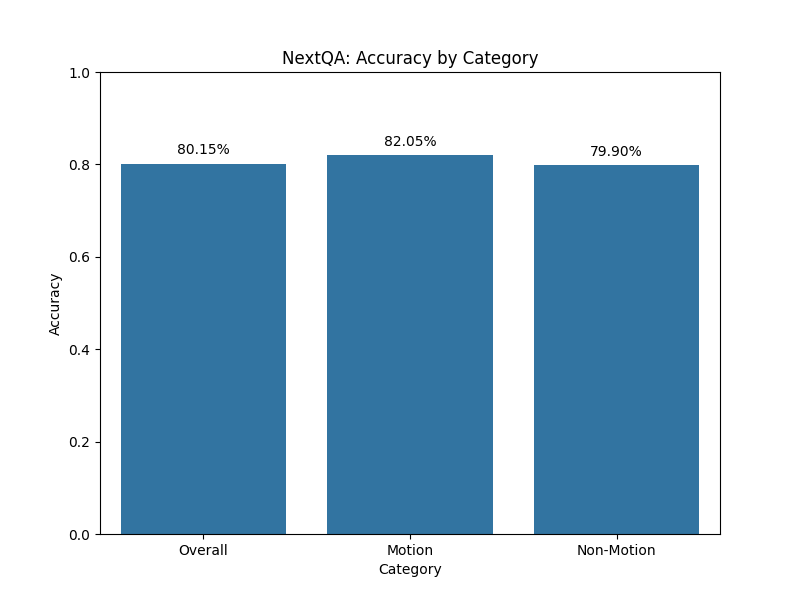
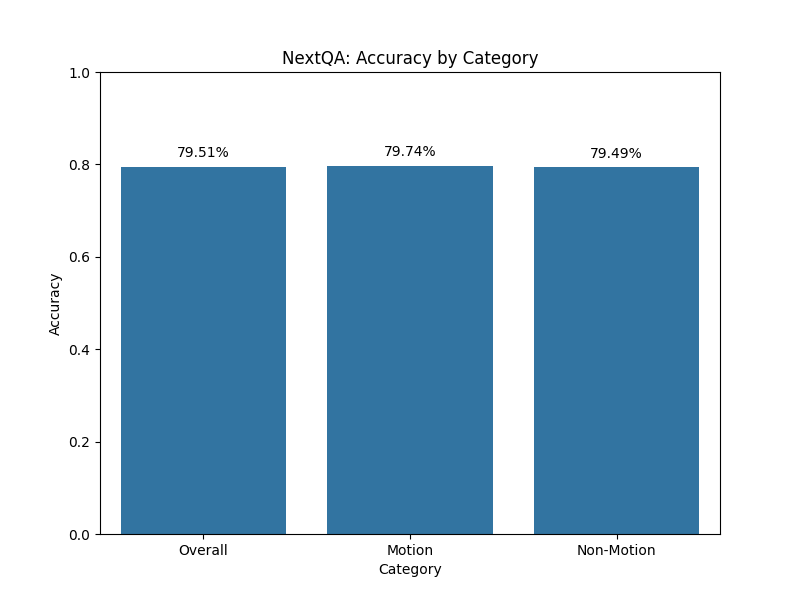
visualizations

Changed region(s): [[0.4062, 0.21, 0.625, 0.3], [0.6875, 0.24, 0.875, 0.3], [0.1562, 0.24, 0.3438, 0.3]]

diff --git a/analyzing_results/analyze_benchmark_comparison.py b/analyzing_results/analyze_benchmark_comparison.py
@@ -1,5 +1,6 @@
 import json
 import os
+import glob
 from typing import Dict, List, Tuple
 
 import matplotlib.pyplot as plt
@@ -28,7 +29,6 @@ def load_global_id_to_motion(qa_labeled_path: str) -> Dict[str, bool]:
 
 
 def collect_results(files: List[str], qid2gid: Dict[str, str], gid2motion: Dict[str, bool]) -> List[Tuple[bool, bool]]:
-    # returns list of (correct, has_motion)
     out: List[Tuple[bool, bool]] = []
     for fp in files:
         if not os.path.exists(fp):
@@ -55,7 +55,6 @@ def collect_results(files: List[str], qid2gid: Dict[str, str], gid2motion: Dict[
 
 
 def compute_accuracy(pairs: List[Tuple[bool, bool]]) -> Dict[str, float]:
-    # returns dict with keys: overall, motion, non_motion and counts
     total = len(pairs)
     motion_pairs = [c for c in pairs if c[1] is True]
     non_motion_pairs = [c for c in pairs if c[1] is False]
@@ -82,26 +81,17 @@ def compute_accuracy(pairs: List[Tuple[bool, bool]]) -> Dict[str, float]:
 
 
 def main():
-    qid2gid = load_question_to_global_id('qa.jsonl')
-    gid2motion = load_global_id_to_motion('qa_data_labeled.json')
+    # Resolve data paths (prefer compiled_qa_data if available)
+    qa_jsonl = 'compiled_qa_data/qa.jsonl' if os.path.exists('compiled_qa_data/qa.jsonl') else 'qa.jsonl'
+    qa_labeled = 'compiled_qa_data/qa_data_labeled.json' if os.path.exists('compiled_qa_data/qa_data_labeled.json') else 'qa_data_labeled.json'
 
-    # Define files for each benchmark
-    lvbench_files = [
-        'output/internvl-lvbench-1/OpenGVLab__InternVL2-8B/20251028_232855_samples_motion_analysis_bench.jsonl',
-        'output/internvl-lvbench-2/OpenGVLab__InternVL2-8B/20251028_233849_samples_motion_analysis_bench.jsonl',
-        'output/internvl-lvbench-3/OpenGVLab__InternVL2-8B/20251029_005716_samples_motion_analysis_bench.jsonl',
-        'output/internvl-lvbench-4/OpenGVLab__InternVL2-8B/20251029_010159_samples_motion_analysis_bench.jsonl',
-    ]
-    nextqa_files = [
-        'output/internvl-nextqa-1/OpenGVLab__InternVL2-8B/20251029_014914_samples_motion_analysis_bench.jsonl',
-        'output/internvl-nextqa-2/OpenGVLab__InternVL2-8B/20251029_015003_samples_motion_analysis_bench.jsonl',
-        'output/internvl-nextqa-3/OpenGVLab__InternVL2-8B/20251029_021315_samples_motion_analysis_bench.jsonl',
-        'output/internvl-nextqa-4/OpenGVLab__InternVL2-8B/20251029_021417_samples_motion_analysis_bench.jsonl',
-    ]
-    egoschema_files = [
-        'output/internvl-egoschema-1/OpenGVLab__InternVL2-8B/20251028_102841_samples_motion_analysis_bench.jsonl',
-        'output/internvl-egoschema-2/OpenGVLab__InternVL2-8B/20251028_225019_samples_motion_analysis_bench.jsonl',
-    ]
+    qid2gid = load_question_to_global_id(qa_jsonl)
+    gid2motion = load_global_id_to_motion(qa_labeled)
+
+    # Auto-discover files for each benchmark
+    lvbench_files = sorted(glob.glob('output/internvl-lvbench-*/OpenGVLab__InternVL2-8B/*.jsonl'))
+    nextqa_files = sorted(glob.glob('output/internvl-nextqa-*/OpenGVLab__InternVL2-8B/*.jsonl'))
+    egoschema_files = sorted(glob.glob('output/internvl-egoschema-*/OpenGVLab__InternVL2-8B/*.jsonl'))
 
     print('Collecting LVBench...')
     lv_pairs = collect_results(lvbench_files, qid2gid, gid2motion)
@@ -114,24 +104,13 @@ def main():
     nq_stats = compute_accuracy(nq_pairs)
     ego_stats = compute_accuracy(ego_pairs)
 
-    # Prepare grouped bar chart: x groups = ['Short (NextQA)', 'Medium (EgoSchema)', 'Long (LVBench)']
     groups = ['Short (NextQA)', 'Medium (EgoSchema)', 'Long (LVBench)']
-    motion_vals = [
-        nq_stats['motion'],
-        ego_stats['motion'],
-        lv_stats['motion'],
-    ]
-    non_motion_vals = [
-        nq_stats['non_motion'],
-        ego_stats['non_motion'],
-        lv_stats['non_motion'],
-    ]
+    motion_vals = [nq_stats['motion'], ego_stats['motion'], lv_stats['motion']]
+    non_motion_vals = [nq_stats['non_motion'], ego_stats['non_motion'], lv_stats['non_motion']]
 
-    # Create folder
     out_dir = os.path.join('internvl-8b', 'comparison_results')
     os.makedirs(out_dir, exist_ok=True)
 
-    # Plot
     x = np.arange(len(groups))
     width = 0.35
 

diff --git a/analyzing_results/analyze_nextqa_results.py b/analyzing_results/analyze_nextqa_results.py
@@ -3,33 +3,35 @@ import pandas as pd
 import matplotlib.pyplot as plt
 import seaborn as sns
 import os
+import glob
 from tqdm import tqdm
 
 
 def analyze_results():
+    # Resolve data paths (prefer compiled_qa_data if available)
+    qa_jsonl = 'compiled_qa_data/qa.jsonl' if os.path.exists('compiled_qa_data/qa.jsonl') else 'qa.jsonl'
+    qa_labeled = 'compiled_qa_data/qa_data_labeled.json' if os.path.exists('compiled_qa_data/qa_data_labeled.json') else 'qa_data_labeled.json'
+
     print("Creating question_id to global_id mapping from qa.jsonl...")
     question_id_to_global_id = {}
-    with open('qa.jsonl', 'r', encoding='utf-8') as f:
+    with open(qa_jsonl, 'r', encoding='utf-8') as f:
         for line in tqdm(f):
             data = json.loads(line)
             question_id_to_global_id[data['question_id']] = data['global_id']
-    print(f"Found {len(question_id_to_global_id)} mappings in qa.jsonl")
+    print(f"Found {len(question_id_to_global_id)} mappings in {qa_jsonl}")
 
     print("Creating global_id to has_motion mapping from qa_data_labeled.json...")
     global_id_to_has_motion = {}
-    with open('qa_data_labeled.json', 'r', encoding='utf-8') as f:
+    with open(qa_labeled, 'r', encoding='utf-8') as f:
         qa_data = json.load(f)
         for item in tqdm(qa_data):
             if 'global_id' in item and 'has_motion' in item:
                 global_id_to_has_motion[item['global_id']] = item['has_motion']
-    print(f"Found {len(global_id_to_has_motion)} mappings in qa_data_labeled.json")
+    print(f"Found {len(global_id_to_has_motion)} mappings in {qa_labeled}")
 
-    result_files = [
-        'output/internvl-nextqa-1/OpenGVLab__InternVL2-8B/20251029_014914_samples_motion_analysis_bench.jsonl',
-        'output/internvl-nextqa-2/OpenGVLab__InternVL2-8B/20251029_015003_samples_motion_analysis_bench.jsonl',
-        'output/internvl-nextqa-3/OpenGVLab__InternVL2-8B/20251029_021315_samples_motion_analysis_bench.jsonl',
-        'output/internvl-nextqa-4/OpenGVLab__InternVL2-8B/20251029_021417_samples_motion_analysis_bench.jsonl'
-    ]
+    # Auto-discover all NextQA result files
+    result_files = sorted(glob.glob('output/internvl-nextqa-*/OpenGVLab__InternVL2-8B/*.jsonl'))
+    print(f"Discovered {len(result_files)} NextQA result files")
 
     print("Processing result files...")
     results = []
@@ -84,12 +86,15 @@ def analyze_results():
 
     print("Generating visualizations...")
 
+    out_dir = os.path.join('internvl-8b', 'nextqa_results')
+    os.makedirs(out_dir, exist_ok=True)
+
     plt.figure(figsize=(8, 6))
     sns.countplot(x='correct', data=df)
     plt.title('NextQA: Overall Distribution of Correct and Incorrect Answers')
     plt.xlabel('Answer Correctness')
     plt.ylabel('Count')
-    plt.savefig('overall_distribution_nextqa.png')
+    plt.savefig(os.path.join(out_dir, 'overall_distribution_nextqa.png'))
 
     plt.figure(figsize=(10, 6))
     sns.countplot(x='has_motion', hue='correct', data=df)
@@ -98,7 +103,7 @@ def analyze_results():
     plt.ylabel('Count')
     plt.xticks(ticks=[0, 1], labels=['Non-Motion', 'Motion'])
     plt.legend(title='Correctness')
-    plt.savefig('motion_distribution_nextqa.png')
+    plt.savefig(os.path.join(out_dir, 'motion_distribution_nextqa.png'))
 
     accuracy_data = {
         'Category': ['Overall', 'Motion', 'Non-Motion'],
@@ -115,9 +120,9 @@ def analyze_results():
     plt.ylim(0, 1)
     for index, row in accuracy_df.iterrows():
         plt.text(row.name, row.Accuracy + 0.02, f"{row.Accuracy:.2%}", color='black', ha='center')
-    plt.savefig('accuracy_by_category_nextqa.png')
+    plt.savefig(os.path.join(out_dir, 'accuracy_by_category_nextqa.png'))
 
-    print("Saved overall_distribution_nextqa.png, motion_distribution_nextqa.png, accuracy_by_category_nextqa.png")
+    print("Saved NextQA figures into", out_dir)
 
 
 if __name__ == '__main__':
